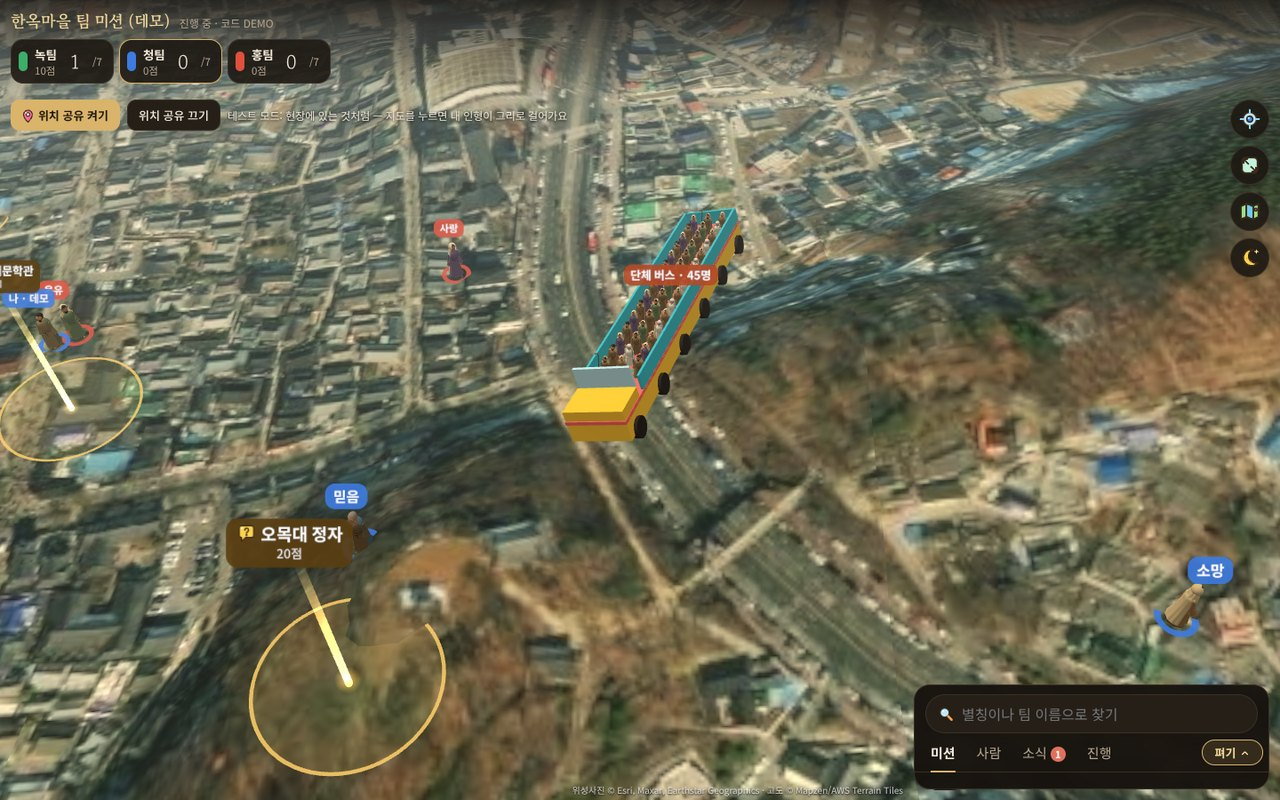
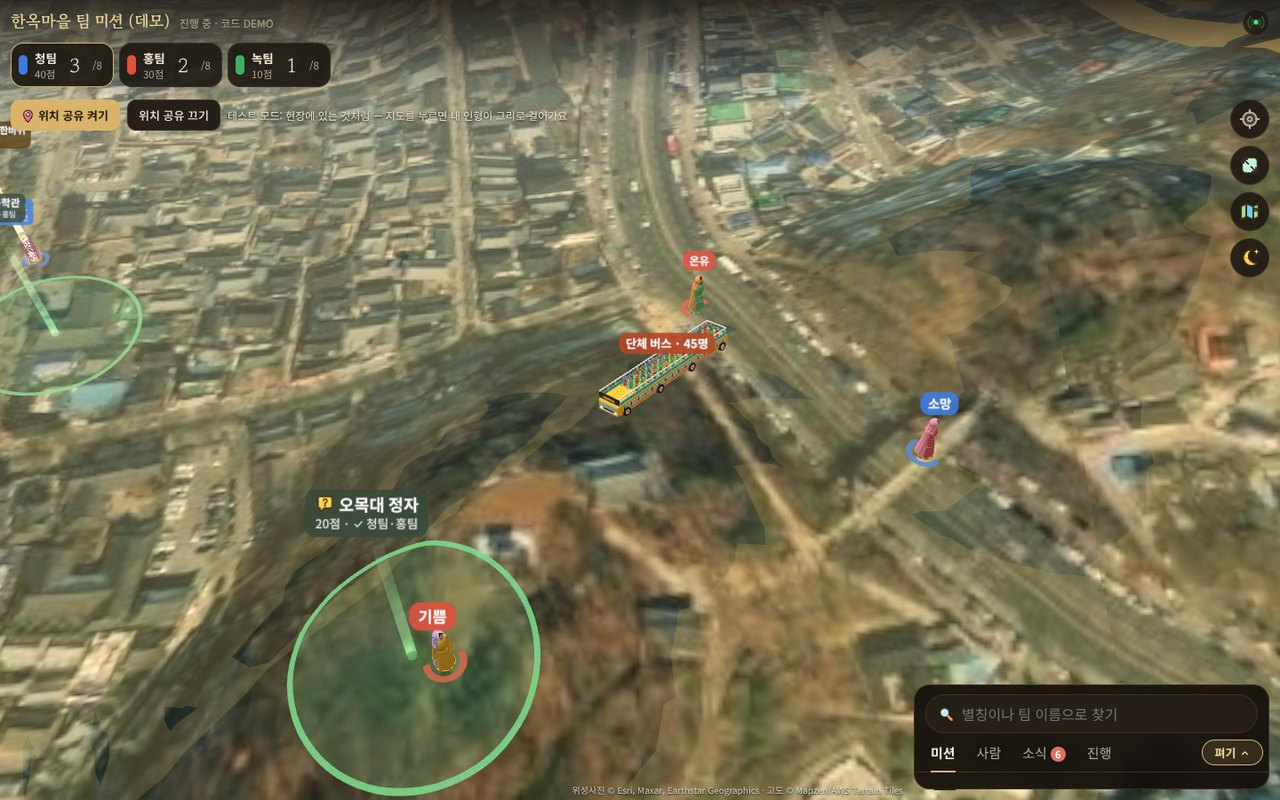
비전 퀘스트 소개 새로: 최신 화면 다시 캡처(시작 화면, 새 로그인, 술래잡기, 지도 모드 3D 건물, 장난감 버스), 미션 5종·3D 건물·옷 색·위치 전송 표시 반영
Claude-Session: https://claude.ai/code/session_01ShCSMFwDxhqcMjTsEDc35E

diff --git a/public/data.js b/public/data.js
@@ -3579,8 +3579,8 @@ window.PROJECTS=[
   "demo": "https://team-esc.web.app/?demo",
   "shot": "visionquest",
   "frame": "phone",
-  "tagline": "팀원들이 실제로 걸으며 미션을 푸는 동안, 모두의 위치가 실제 3D 위성 지형 위에 미니미 인형으로 실시간으로 움직입니다",
-  "overview": "비전 퀘스트는 행사 지역을 실제로 걸으며 팀별로 미션을 푸는 웹앱입니다. 참가자의 GPS 위치를 실시간으로 주고받아 실제 고도와 위성사진으로 만든 3D 지형 위에 각자의 미니미 인형을 세우고, 위쪽 점수판에는 상대 팀의 미션 수행 수가 바로 올라갑니다. 진행자는 지역과 팀을 정해 게임을 만들고 5자리 코드로 참가자를 받으며, 게임 중에도 미션을 더하고 사진·현장 미션을 확인해 점수를 줍니다. 함께 움직이는 단체는 노란 오픈버스에, 차로 이동하는 사람은 팀 색 오픈카에 저절로 태워 지도가 한눈에 읽힙니다. 게임이 끝나면 모두의 화면에 시상대와 순위가 뜹니다. 앱 설치 없이 휴대폰 브라우저에서 바로 시작합니다.",
+  "tagline": "어디서든 모여서, 걷고 이동하며 하는 팀 미션 게임. 모두의 위치가 실제 3D 지도 위 미니미 인형으로 실시간으로 움직입니다",
+  "overview": "비전 퀘스트는 사람이 모이는 곳 어디서나 팀원들이 실제로 걸으며 미션을 푸는 게임입니다. 참가자의 GPS 위치를 실시간으로 주고받아 실제 고도와 위성사진으로 만든 3D 지형 위에 각자의 미니미 인형을 세우고, 위쪽 점수판에는 상대 팀의 미션 수행 수가 바로 올라갑니다. 지도 모드로 바꾸면 실제 높이의 3D 건물이 서고, 도착·퀴즈·사진·현장 미션에 팀끼리 쫓고 잡는 술래잡기까지 다섯 가지 미션을 지도 위 빛기둥으로 세웁니다. 진행자는 지역과 팀을 정해 게임을 만들고 5자리 코드로 참가자를 받으며, 게임 중에도 미션을 더하고 사진·현장 미션을 확인해 점수를 줍니다. 함께 움직이는 단체는 노란 장난감 버스에, 차로 이동하는 사람은 팀 색 오픈카에 저절로 태워 지도가 한눈에 읽히고, 게임이 끝나면 모두의 화면에 시상대와 순위가 뜹니다. 앱 설치 없이 휴대폰 브라우저에서 바로 시작합니다.",
   "flagship": [
    {
     "title": "실시간 3D 위치 지도",
@@ -3588,20 +3588,20 @@ window.PROJECTS=[
     "hot": true
    },
    {
+    "title": "미션 5종 · 술래잡기",
+    "desc": "도착하면 자동 완료, 반경 안에서 푸는 퀴즈, 진행자가 확인하는 사진·현장 미션에 팀마다 술래를 정해 쫓고 잡는 술래잡기까지."
+   },
+   {
+    "title": "3D 건물 지도",
+    "desc": "위성 지형과 지도 그림을 바꿔 보고, 지도 모드에서는 실제 높이의 건물이 입체로 섭니다."
+   },
+   {
     "title": "실시간 점수판",
     "desc": "팀마다 미션 수행 수와 점수가 위쪽에 바로 올라가고, 완료 소식이 모두에게 전해집니다."
    },
    {
-    "title": "미션 4종",
-    "desc": "도착하면 자동 완료, 반경 안에서 푸는 퀴즈, 진행자가 확인하는 사진·현장 미션을 지도 위 빛기둥으로 세웁니다."
-   },
-   {
-    "title": "오픈버스·오픈카",
-    "desc": "함께 걷는 4명 넘는 단체는 노란 오픈버스에 줄 맞춰 태우고(50명까지), 시속 25km를 넘으면 팀 색 오픈카에 태웁니다."
-   },
-   {
-    "title": "진행자 도구",
-    "desc": "게임 중에도 미션 더하기, 팀 정하기, 끝나는 시간, 알림 보내기, 지역 바꾸기, 진행자 더하기를 한 화면에서 합니다."
+    "title": "장난감 버스·오픈카",
+    "desc": "함께 걷는 4명 넘는 단체는 노란 버스에 줄 맞춰 태우고(50명까지), 시속 25km를 넘으면 팀 색 오픈카에 태웁니다."
    },
    {
     "title": "시상대 결과 화면",
@@ -3614,12 +3614,20 @@ window.PROJECTS=[
     "summary": "가입부터 팀까지 1분",
     "items": [
      {
+      "title": "게임 같은 시작 화면",
+      "desc": "SSSOFT 인트로와 오케스트라 음악에 이어, 떠 있는 마을 그림 위로 '비전 퀘스트'가 등장합니다."
+     },
+     {
       "title": "구글·이메일 가입",
-      "desc": "구글 계정이나 이메일로 바로 시작합니다."
+      "desc": "구글 계정이나 이메일로 바로 시작하고, 로그인 유지를 켜고 끌 수 있습니다."
      },
      {
       "title": "별칭과 미니미",
-      "desc": "별칭을 정하고 남/여만 고르면 미니미 옷차림이 무작위로 정해지고, 다시 뽑을 수 있습니다."
+      "desc": "별칭을 정하고 남/여를 고르면 미니미 옷차림이 무작위로 정해지고, 다시 뽑을 수 있습니다."
+     },
+     {
+      "title": "겉옷 색 고르기",
+      "desc": "미니미의 겉옷 색은 각자 고르고, 팀은 이름표와 발밑 고리 색으로 구분합니다."
      },
      {
       "title": "5자리 게임 코드",
@@ -3640,16 +3648,20 @@ window.PROJECTS=[
       "desc": "실제 고도 자료와 위성사진으로 만든 3D 지형을 필요한 곳만 조각으로 받아 폰에서 그립니다."
      },
      {
-      "title": "위성·지도 전환",
-      "desc": "위성사진과 지도 그림을 단추 하나로 바꿉니다."
+      "title": "지도 모드 3D 건물",
+      "desc": "지도 그림으로 바꾸면 실제 높이의 건물이 입체로 서고, 단추로 켜고 끕니다."
      },
      {
-      "title": "내 위치 따라가기",
-      "desc": "나를 화면 가운데에 두고, 가는 방향이 위로 오게 지도를 돌립니다."
+      "title": "내 위치 3단계",
+      "desc": "한 번 누르면 나를 따라가고, 두 번 누르면 가는 방향이 늘 위로 오게 고정하고, 세 번 누르면 풉니다."
      },
      {
       "title": "전체 보기",
       "desc": "게임 지역 전체를 한 화면에 봅니다. 게임 반경은 땅 위의 금색 띠로 보입니다."
+     },
+     {
+      "title": "땅에 붙는 미션 표지",
+      "desc": "미션 반경 고리와 원판은 땅의 높낮이대로 굽혀 깔립니다."
      },
      {
       "title": "별칭·팀 검색",
@@ -3663,7 +3675,7 @@ window.PROJECTS=[
    },
    {
     "stage": "미션",
-    "summary": "걸어서 푸는 미션",
+    "summary": "걸어서 푸는 다섯 가지 미션",
     "items": [
      {
       "title": "도착 미션",
@@ -3680,6 +3692,10 @@ window.PROJECTS=[
      {
       "title": "현장 미션",
       "desc": "현장에서 한 일을 진행자가 확인해 인정합니다."
+     },
+     {
+      "title": "술래잡기",
+      "desc": "진행자가 팀마다 술래를 정하면, 놀이 구역 안에서 다른 팀 사람에게 6m 안으로 먼저 다가간 술래의 팀이 이깁니다."
      },
      {
       "title": "개인 미션",
@@ -3700,8 +3716,8 @@ window.PROJECTS=[
       "desc": "시속 25km를 넘으면 팀 색 오픈카에 태우고, 신호 대기에는 내리지 않습니다."
      },
      {
-      "title": "단체 오픈버스",
-      "desc": "4명 넘게 함께 비슷한 속도로 움직이면 노란 오픈버스에 줄 맞춰 태웁니다."
+      "title": "단체 버스",
+      "desc": "4명 넘게 함께 비슷한 속도로 움직이면 노란 장난감 버스에 줄 맞춰 태웁니다."
      },
      {
       "title": "큰 단체",
@@ -3749,8 +3765,20 @@ window.PROJECTS=[
    },
    {
     "stage": "현장 배려",
-    "summary": "하루 행사에 맞춘 설계",
+    "summary": "걸으며 쓰는 폰에 맞춘 설계",
     "items": [
+     {
+      "title": "흔들림 없는 위치",
+      "desc": "튀는 GPS 값을 거르고 최근 4초를 평균해 인형이 떨지 않게 하며, 빠르게 움직일 때는 방금 위치를 바로 씁니다."
+     },
+     {
+      "title": "전송 상태 표시",
+      "desc": "내 위치가 서버에 닿을 때마다 제목 줄의 전파 아이콘이 초록으로 퍼지고, 끊기면 빨갛게 깜빡입니다."
+     },
+     {
+      "title": "위치 다시 잡기",
+      "desc": "내비 같은 다른 앱에 다녀오거나 위치가 조용해지면 위치 받기를 새로 겁니다."
+     },
      {
       "title": "주머니 모드",
       "desc": "화면을 까맣게 덮고 3D 그리기를 멈춰 배터리를 아끼면서 위치는 계속 보냅니다."
@@ -3777,8 +3805,8 @@ window.PROJECTS=[
     "label": "참가자 위치·점수 공유"
    },
    {
-    "value": "4종",
-    "label": "도착 · 퀴즈 · 사진 · 현장 미션"
+    "value": "5종",
+    "label": "도착 · 퀴즈 · 사진 · 현장 · 술래잡기"
    },
    {
     "value": "2~10팀",
@@ -3791,16 +3819,24 @@ window.PROJECTS=[
   ],
   "gallery": [
    {
-    "src": "gallery/visionquest-phones.jpg",
-    "cap": "휴대폰: 시작 화면 · 사람 탭 · 진행자 도구 · 게임 결과"
+    "src": "gallery/visionquest-start.jpg",
+    "cap": "시작 화면: 떠 있는 마을 위로 등장하는 비전 퀘스트"
    },
    {
-    "src": "gallery/visionquest-host.jpg",
-    "cap": "진행 탭: 게임 끝내기 · 미션 더하기 · 팀 정하기 · 끝나는 시간 · 알림 · 지역 바꾸기"
+    "src": "gallery/visionquest-phones.jpg",
+    "cap": "휴대폰: 로그인 · 위성 3D 지도 · 술래잡기 · 게임 결과"
+   },
+   {
+    "src": "gallery/visionquest-buildings.jpg",
+    "cap": "지도 모드: 실제 높이의 3D 건물과 미션 빛기둥"
+   },
+   {
+    "src": "gallery/visionquest-phones2.jpg",
+    "cap": "휴대폰: 시작 화면 · 지도 모드 · 진행자 도구"
    },
    {
     "src": "gallery/visionquest-bus.jpg",
-    "cap": "함께 걷는 45명을 태운 단체 오픈버스"
+    "cap": "함께 걷는 45명을 태운 단체 버스"
    }
   ],
   "galleryWide": true,
@@ -3812,6 +3848,7 @@ window.PROJECTS=[
   "tech": [
    "three.js 3D",
    "위성 지형 타일",
+   "OpenFreeMap 3D 건물",
    "Firebase 실시간 DB·인증",
    "GPS",
    "웹앱"
